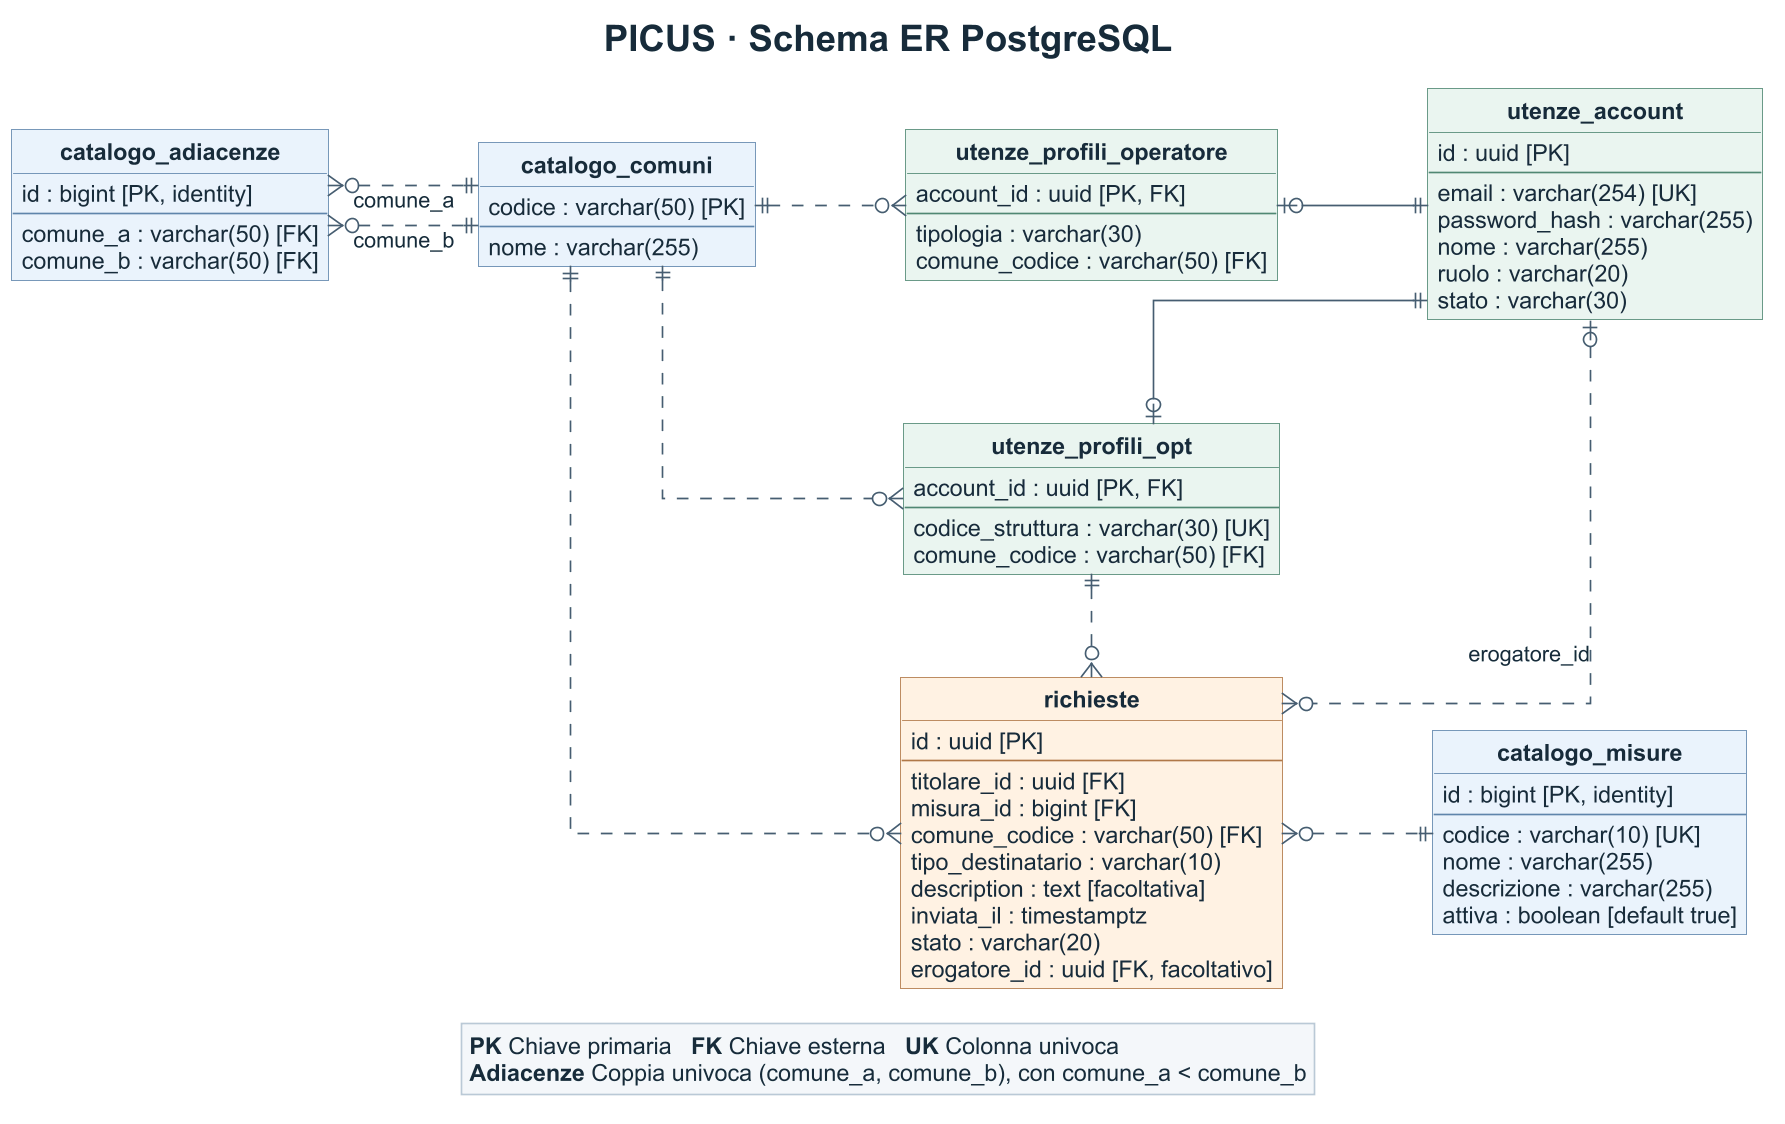
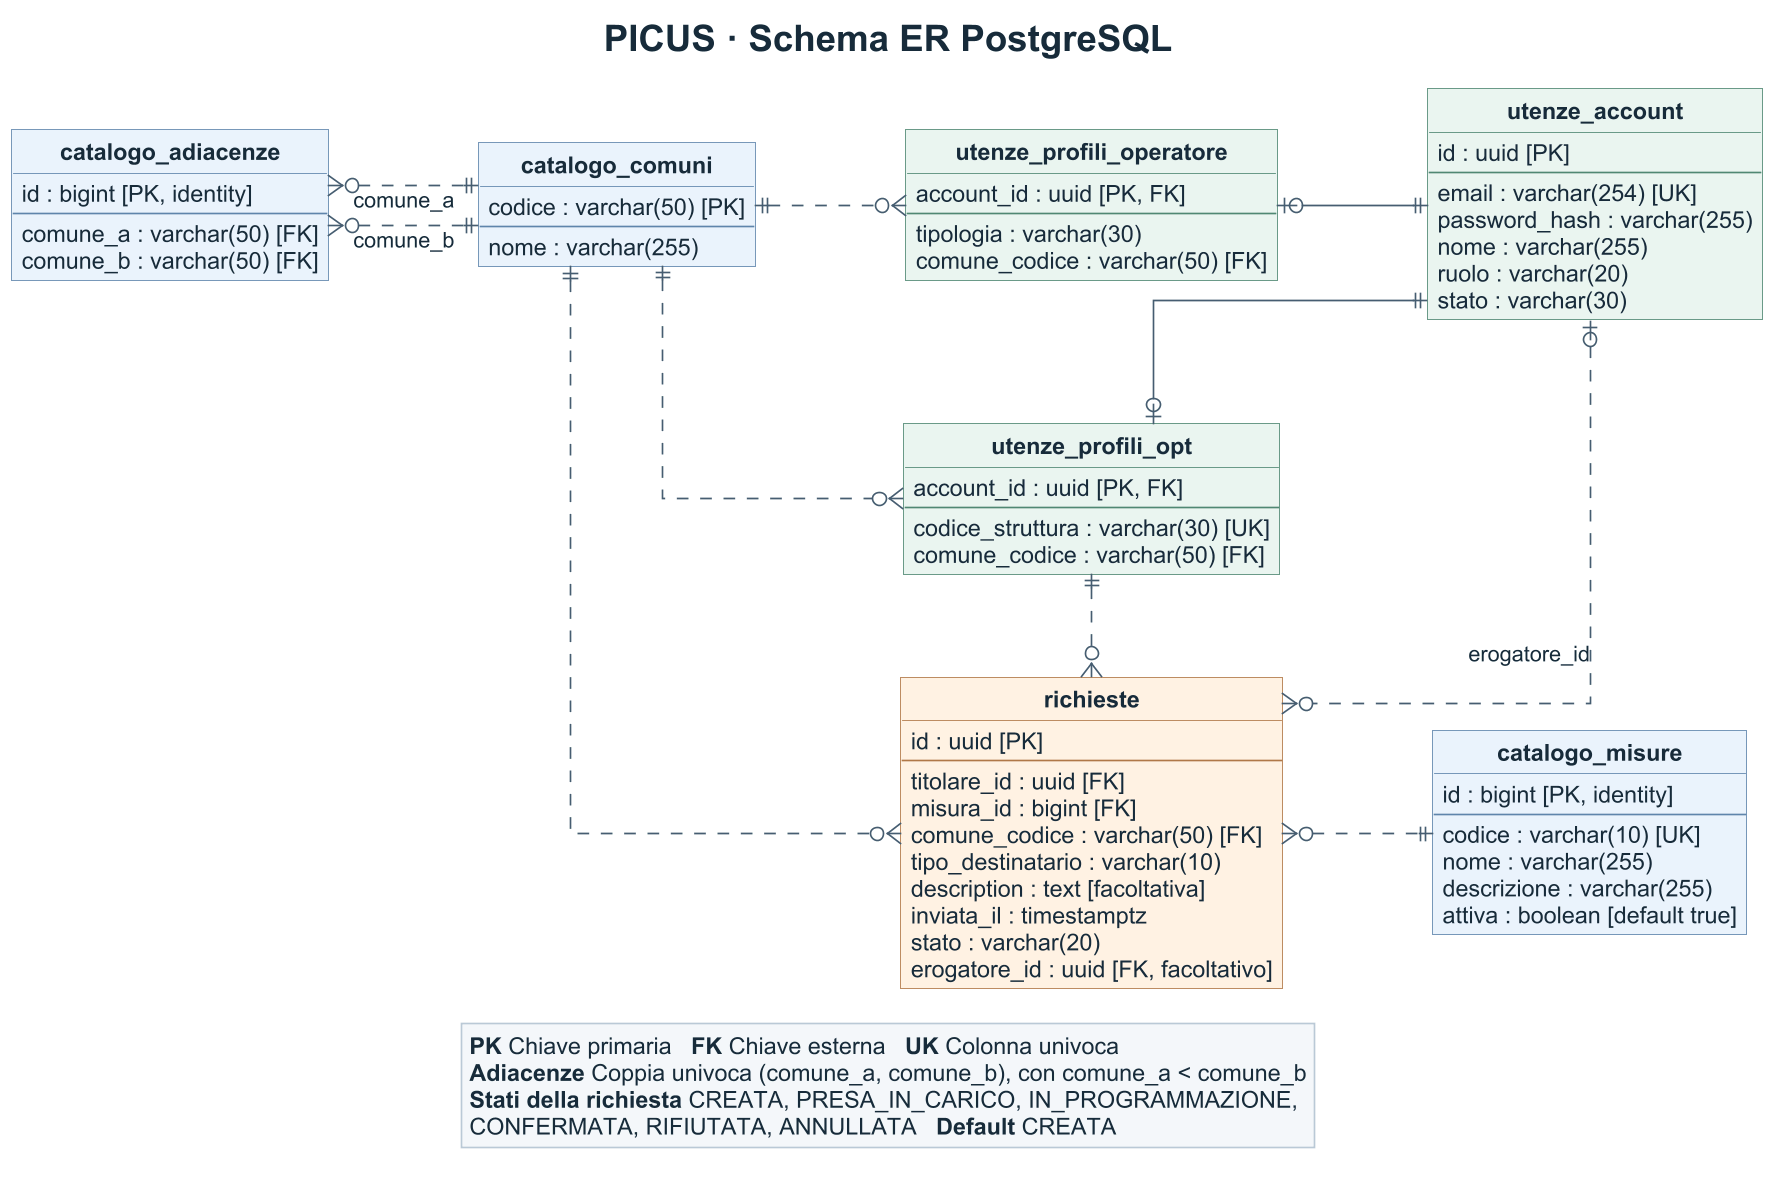
fix(architettura): allinea baseline e stati delle richieste
Refs #76

diff --git a/docs/architecture/README.md b/docs/architecture/README.md
@@ -16,6 +16,33 @@ A regime, i controller di `web` invocano i casi d’uso del proprio modulo. In `
 
 PICUS usa un unico database PostgreSQL per tutti i moduli, inclusi file e metadati degli allegati. Ciascun modulo accede ai propri dati tramite i suoi repository. [ADR-001](../adr/ADR-001-monolite-modulare-mvc.md) · [Task di predisposizione dell’ambiente](https://github.com/Pinguini-alla-Fragola/Progetto-SAD/issues/77)
 
+## API Java dei moduli
+
+I package `api` espongono le interfacce e i DTO usati nelle collaborazioni
+interne di PICUS. I moduli possiedono le proprie regole e i propri dati. Il
+modulo che riceve un comando verifica il ruolo e il rapporto dell'account con
+la risorsa. Le identità usate nei comandi provengono dal server dopo la
+verifica della sessione.
+
+| Interfaccia | Contratti |
+| --- | --- |
+| [UtenzeApi](../../src/main/java/it/unina/picus/utenze/api/UtenzeApi.java) | Identità, account e profili usati dagli altri moduli. |
+| [CatalogoApi](../../src/main/java/it/unina/picus/catalogo/api/CatalogoApi.java) | Misure, comuni e opzioni di erogazione compatibili. |
+| [RichiesteApi](../../src/main/java/it/unina/picus/richieste/api/RichiesteApi.java) | Invio, coda, contatti, assegnazione e transizioni della richiesta. |
+| [ComunicazioniApi](../../src/main/java/it/unina/picus/comunicazioni/api/ComunicazioniApi.java) | Comunicazioni del Banco, riscontri e avvisi operativi per conto di Richieste. |
+| [MonitoraggioApi](../../src/main/java/it/unina/picus/monitoraggio/api/MonitoraggioApi.java) | Conteggi delle OPT, schede degli operatori e riepiloghi trimestrali. |
+
+Il walking skeleton usa Utenze e Catalogo per l'identità della OPT e i
+riferimenti a misura e comune. Per la ricerca, Catalogo consulta Utenze e
+combina i profili degli operatori con le offerte delle OPT. Richieste ordina
+le opzioni usando anche il carico di appuntamenti e determina a chi far
+recapitare gli avvisi. Monitoraggio usa Utenze e Catalogo per risolvere i
+riferimenti dei dati trimestrali. [Vista dei moduli](diagrams/PICUS-Module-Package-View.mmd)
+
+Le interfacce descrivono gli esiti attesi per le successive implementazioni.
+Negoziazione, ritiro dei contatti e tracciato definitivo delle schede si
+dettagliano nelle relative storie. [ADR-002](../adr/ADR-002-ciclo-di-vita-richiesta.md) · [Registro dei chiarimenti](../requirements/open-questions.md)
+
 ## Contratti del walking skeleton
 
 La sequenza descrive il flusso previsto per lo Sprint 2 usando i contratti Java di `main` al commit `e7a39aa`. Mostra l’accesso e la chiusura della sessione, l’invio in stato `CREATA`, l’elenco della OPT titolare, la coda del Banco e la consultazione del dettaglio con il diniego a una OPT estranea. I casi negativi di accesso e validazione sono ripresi nelle verifiche della [#78](https://github.com/Pinguini-alla-Fragola/Progetto-SAD/issues/78).
@@ -31,9 +58,11 @@ Il server ricava la titolarità dalla sessione e dai dati persistiti. Controller
 
 ## Persistenza iniziale
 
-Lo schema ER rappresenta le sette tabelle di `catalogo`, `utenze` e `richieste` definite dalle migrazioni Flyway di `main` al commit `e7a39aa`. `PK` indica la chiave primaria, `FK` la chiave esterna e `UK` un vincolo di unicità sulla singola colonna. In `catalogo_adiacenze` la coppia `(comune_a, comune_b)` è unica e rispetta il vincolo `comune_a < comune_b`. I campi facoltativi sono indicati nel diagramma. [Migrazioni Flyway](https://github.com/Pinguini-alla-Fragola/Progetto-SAD/tree/e7a39aa0ceee9bdaea63a56d74099c1ba2c7fb8c/src/main/resources/db/migration)
+Lo schema ER rappresenta le sette tabelle di `catalogo`, `utenze` e `richieste` definite dalle migrazioni Flyway per PostgreSQL. `PK` indica la chiave primaria, `FK` la chiave esterna e `UK` un vincolo di unicità sulla singola colonna. In `catalogo_adiacenze` la coppia `(comune_a, comune_b)` è unica e rispetta il vincolo `comune_a < comune_b`. I campi facoltativi sono indicati nel diagramma. [Migrazioni comuni](../../src/main/resources/db/migration/) · [Migrazioni PostgreSQL](../../src/main/resources/db/postgresql/)
 
 La #77 ha introdotto in `main` lo schema PostgreSQL, le mappature JPA e i dati demo. Flyway applica le migrazioni all’avvio. `RichiestaJpa` inizializza lo stato a `CREATA`. La colonna `erogatore_id` è facoltativa e riferisce l’account assegnato. Il flusso previsto la valorizza al passaggio a In programmazione, quando il Banco individua l’erogatore disponibile. [ADR-002](../adr/ADR-002-ciclo-di-vita-richiesta.md) · [PR #83](https://github.com/Pinguini-alla-Fragola/Progetto-SAD/pull/83)
+
+Le migrazioni PostgreSQL V4 e V5 allineano il vincolo sullo stato ai sei valori dell’ADR-002. V4 abilita `CREATA` e lo imposta come default. V5 aggiunge `PRESA_IN_CARICO`. [V4](../../src/main/resources/db/postgresql/V4__aggiungi_stato_creata.sql) · [V5](../../src/main/resources/db/postgresql/V5__allinea_stati_richiesta.sql)
 
 ## Flusso dell'architettura MVC
 
@@ -62,6 +91,30 @@ La #77 ha introdotto in `main` lo schema PostgreSQL, le mappature JPA e i dati d
 ## Rischi e debito tecnico
 
 - Il database e il rilascio sono condivisi. Le migrazioni vanno coordinate tra i moduli e il ripristino da backup resta da provare.
-- Lo schema rappresentato ammette quattro stati. Per persistere `CREATA` e `PRESA_IN_CARICO` serve allineare il vincolo SQL all’[ADR-002](../adr/ADR-002-ciclo-di-vita-richiesta.md).
 - Il campo `description` può contenere identificativi inseriti come testo libero. La gestione di questo caso resta da definire. [ADR-003](../adr/ADR-003-isolamento-e-validazione-richieste.md)
-- L’eventuale estrazione di un sottosistema via gRPC richiede di definire contratti, proprietà dei dati, transazioni e gestione dei guasti di rete. [ADR-001](../adr/ADR-001-monolite-modulare-mvc.md)
+- Per la futura estrazione via gRPC di `monitoraggio` (M5), il modulo dei report trimestrali confermato dalla docente, restano da definire contratti, proprietà dei dati, transazioni, autorizzazioni e gestione dei guasti di rete. [ADR-001](../adr/ADR-001-monolite-modulare-mvc.md)
+
+## Generare il Javadoc
+
+Dalla radice del clone, usare questi comandi in PowerShell con il JDK 25 nel
+`PATH`.
+
+```powershell
+javadoc -d target/apidocs '@scripts/javadoc.args'
+Copy-Item -LiteralPath docs/architecture/picus-logo.svg -Destination target/apidocs/resource-files/picus-logo.svg
+```
+
+Aprire `target/apidocs/index.html`. Aggiornare nei sorgenti il Javadoc dei
+contratti quando cambiano dati, permessi, precondizioni o esiti. Il comando
+verifica la documentazione e rigenera le pagine HTML in `target`.
+
+Il [foglio di stile del Javadoc](picus-javadoc.css) riprende la palette e la
+tipografia della landing. Il generatore lo include con `--add-stylesheet`
+nelle anteprime locali e nei file pubblicati su GitHub Pages. Il pulsante
+nell'intestazione alterna i temi chiaro e scuro. Il browser salva la scelta
+per le visite successive quando lo storage locale è disponibile.
+
+Il workflow usa lo stesso file di argomenti e include il logo SVG che
+collega alla landing page. Quando una PR viene integrata in `main`, rigenera
+la documentazione e la pubblica su GitHub Pages. Le istruzioni
+di attivazione sono nella [configurazione GitHub](../../.github/SETUP.md#pubblicazione-del-javadoc).

diff --git a/docs/adr/ADR-001-monolite-modulare-mvc.md b/docs/adr/ADR-001-monolite-modulare-mvc.md
@@ -27,15 +27,17 @@ Il team conferma il monolite modulare con Spring Boot e Thymeleaf per le viste M
 | `catalogo` | Misure, offerta delle OPT, comuni e relazioni di adiacenza. |
 | `richieste` | Richieste, coda del Banco, contatti con gli erogatori, assegnazione ed esito. |
 | `comunicazioni` | Comunicazioni generali e conferme di ricezione. |
-| `monitoraggio` | Conteggi trimestrali delle OPT, schede degli operatori e consultazione per il monitoraggio. |
+| `monitoraggio` | Conteggi trimestrali delle OPT, schede degli operatori e report trimestrali. |
 
 Ogni modulo espone in `api` le interfacce e i DTO che gli altri moduli possono usare. `interno` contiene `applicazione` per i casi d’uso, `dominio` per entità, regole e interfacce dei repository, `persistenza` per gli adattatori JPA che implementano tali interfacce e `integrazioni` per gli altri adattatori. I servizi ricevono le dipendenze per costruttore e Spring collega le implementazioni ai contratti. `web` traduce richieste HTTP e moduli HTML in chiamate ai casi d’uso del proprio modulo e costruisce le viste con DTO dedicati. `shared` raccoglie soltanto componenti tecnici comuni.
 
 Nel primo flusso `richieste` usa le API di `utenze` e `catalogo` per ottenere le informazioni necessarie. Le regole di titolarità e assegnazione della singola pratica appartengono a `richieste`. Ogni modulo accede alle proprie entità e tabelle. Gli altri moduli passano dalla sua API. Le dipendenze tra moduli restano acicliche.
+
+La docente ha confermato `monitoraggio` (M5), il modulo dei report trimestrali, come servizio da estrarre dal monolite in un’evoluzione successiva via gRPC. Il deployment dello Sprint 2 comprende il modulo nel monolite. Il perimetro del servizio, il contratto Protocol Buffers e la proprietà dei dati verranno definiti con la progettazione dell’estrazione. [MonitoraggioApi](../../src/main/java/it/unina/picus/monitoraggio/api/MonitoraggioApi.java)
 
 ## Consequences
 
 - Il team può sviluppare e verificare i flussi in un solo ambiente. Le operazioni sulle richieste possono usare transazioni locali.
 - I moduli condividono processo, database e ciclo di rilascio. Un guasto dell’applicazione può interessare più funzionalità e le modifiche di schema vanno coordinate.
 - In review si controlla che i moduli accedano solo alle API pubbliche, che le dipendenze siano acicliche e che le firme pubbliche e le viste usino DTO. La vista dei moduli e la sequenza del walking skeleton in `docs/architecture/` documentano questi confini.
-- Le API tra moduli preparano un punto di separazione. Se emerge l’esigenza di un rilascio autonomo, il team può valutare gRPC e dovrà definire i contratti e rivedere proprietà dei dati, confini transazionali, autorizzazioni e gestione dei guasti di rete.
+- L’API Java di `monitoraggio` individua il confine da cui partire per l’estrazione. La progettazione gRPC dovrà coprire le autorizzazioni per ruolo e titolarità, i confini transazionali e il comportamento in caso di indisponibilità del servizio.
